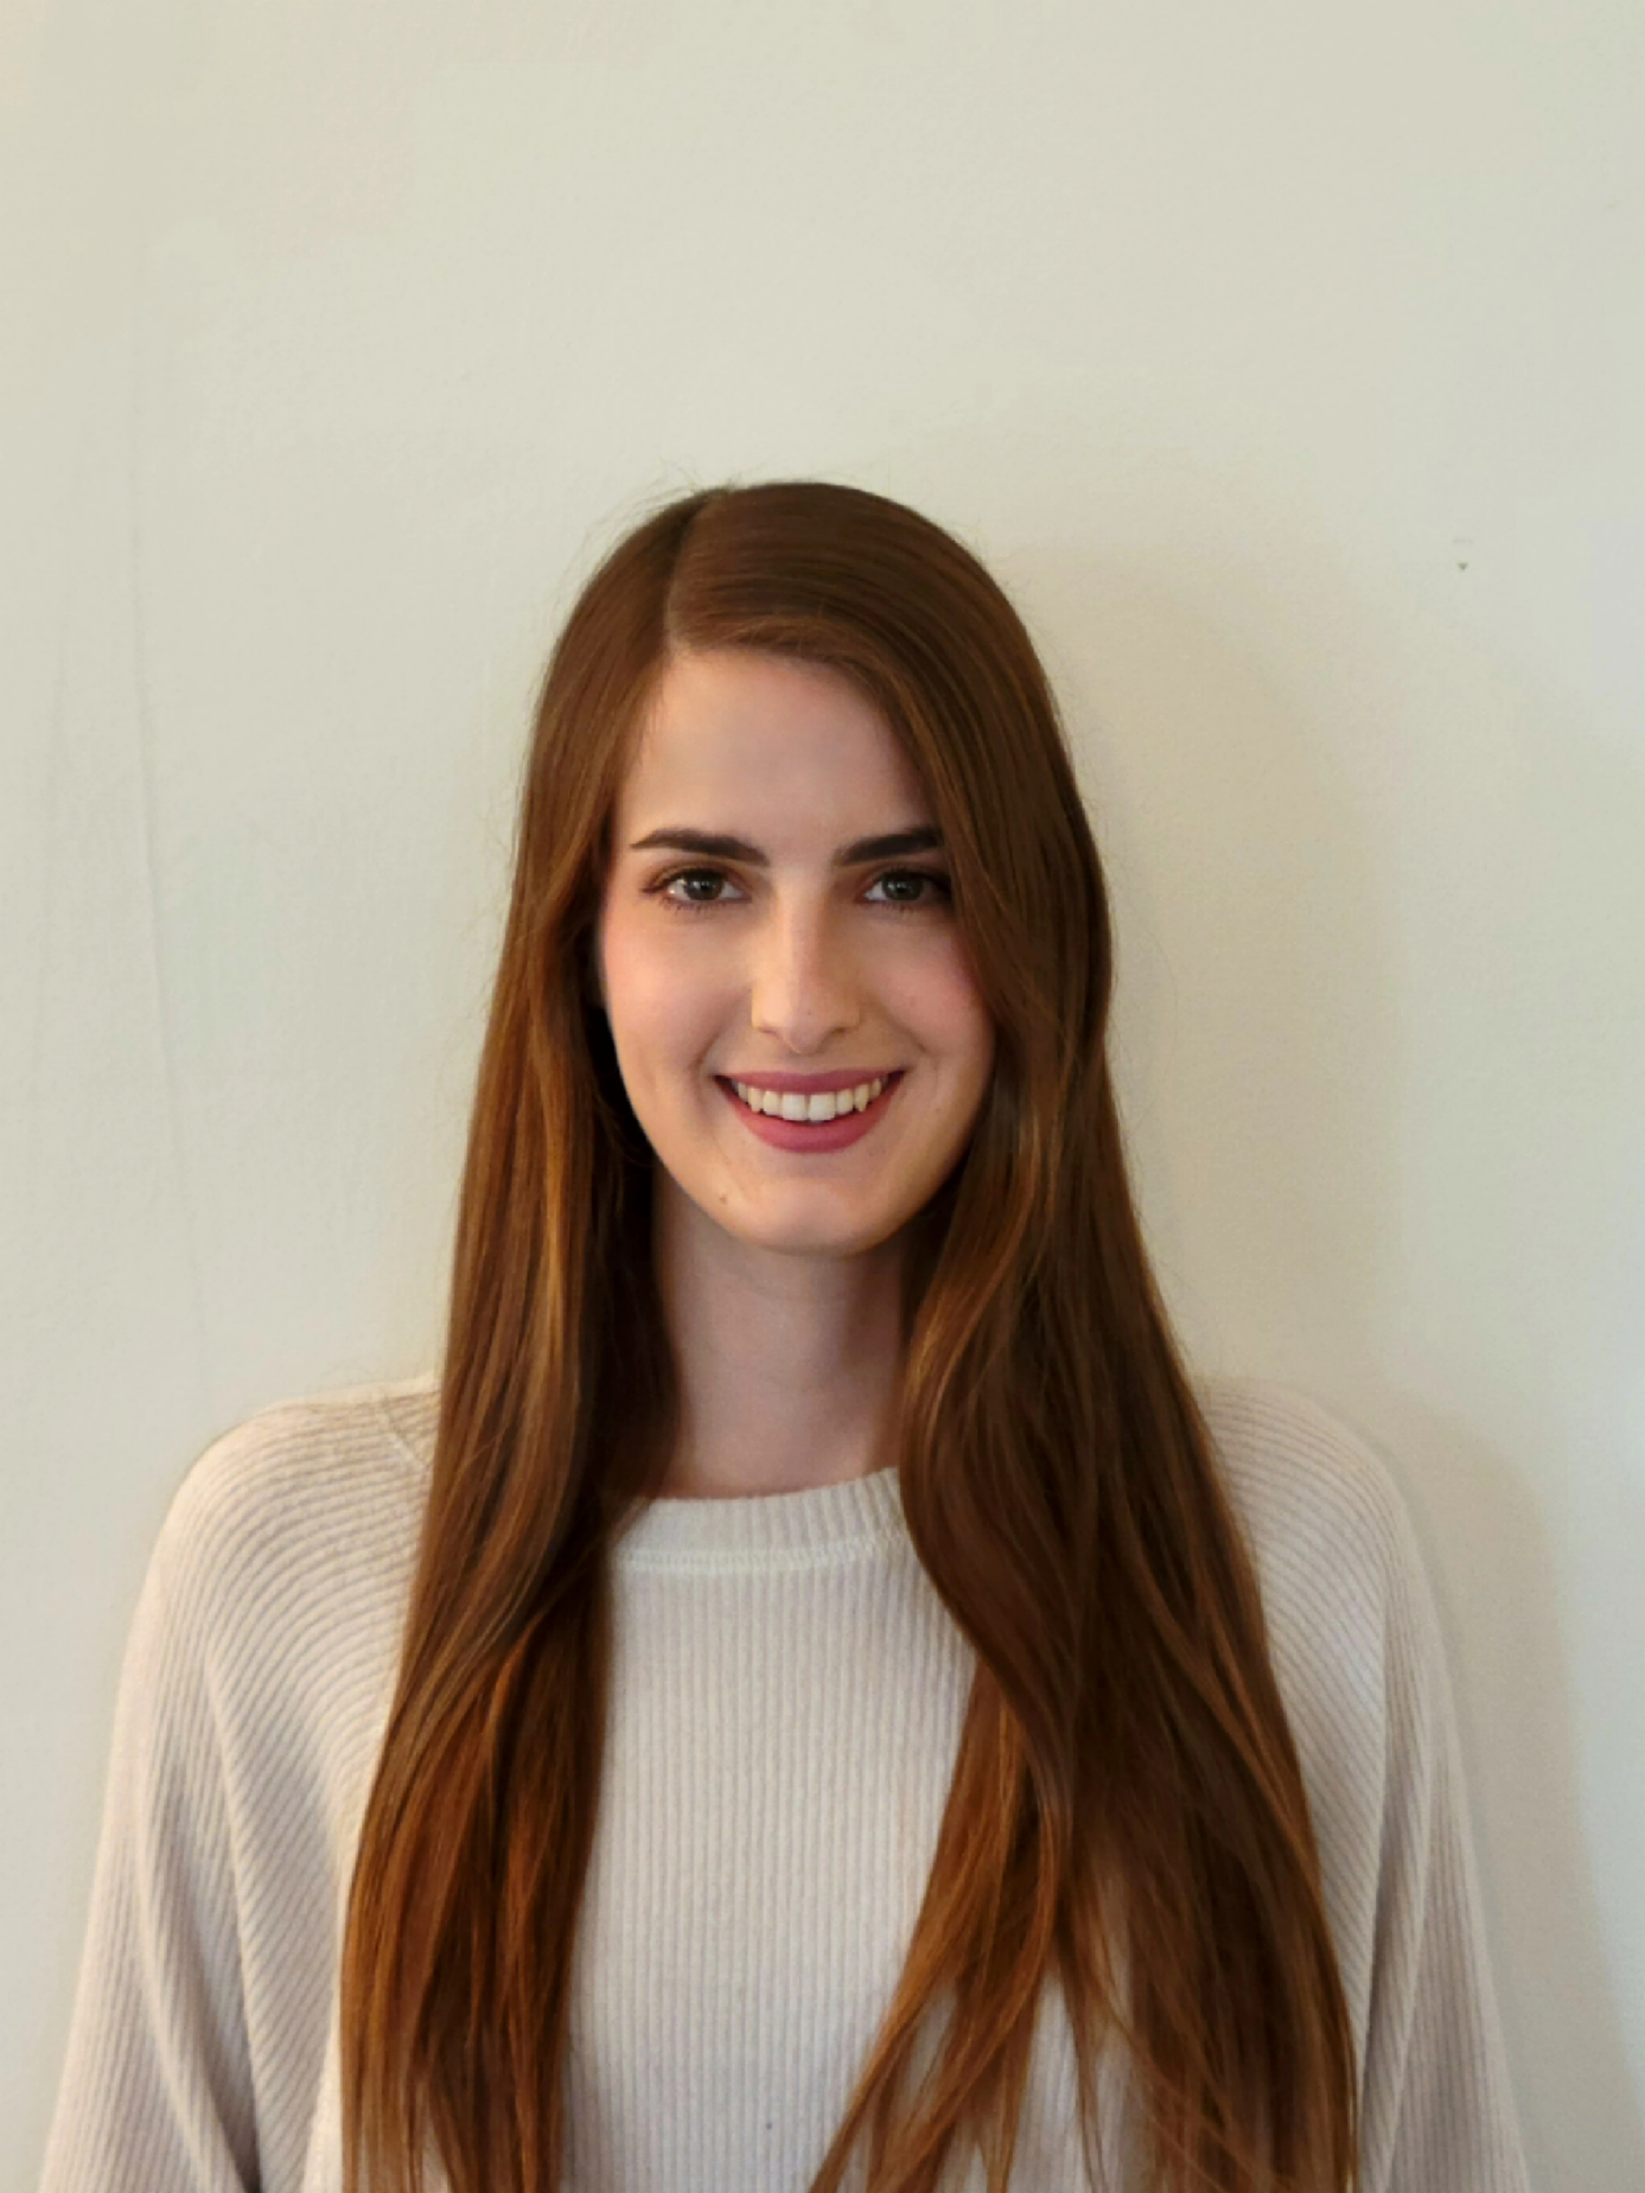
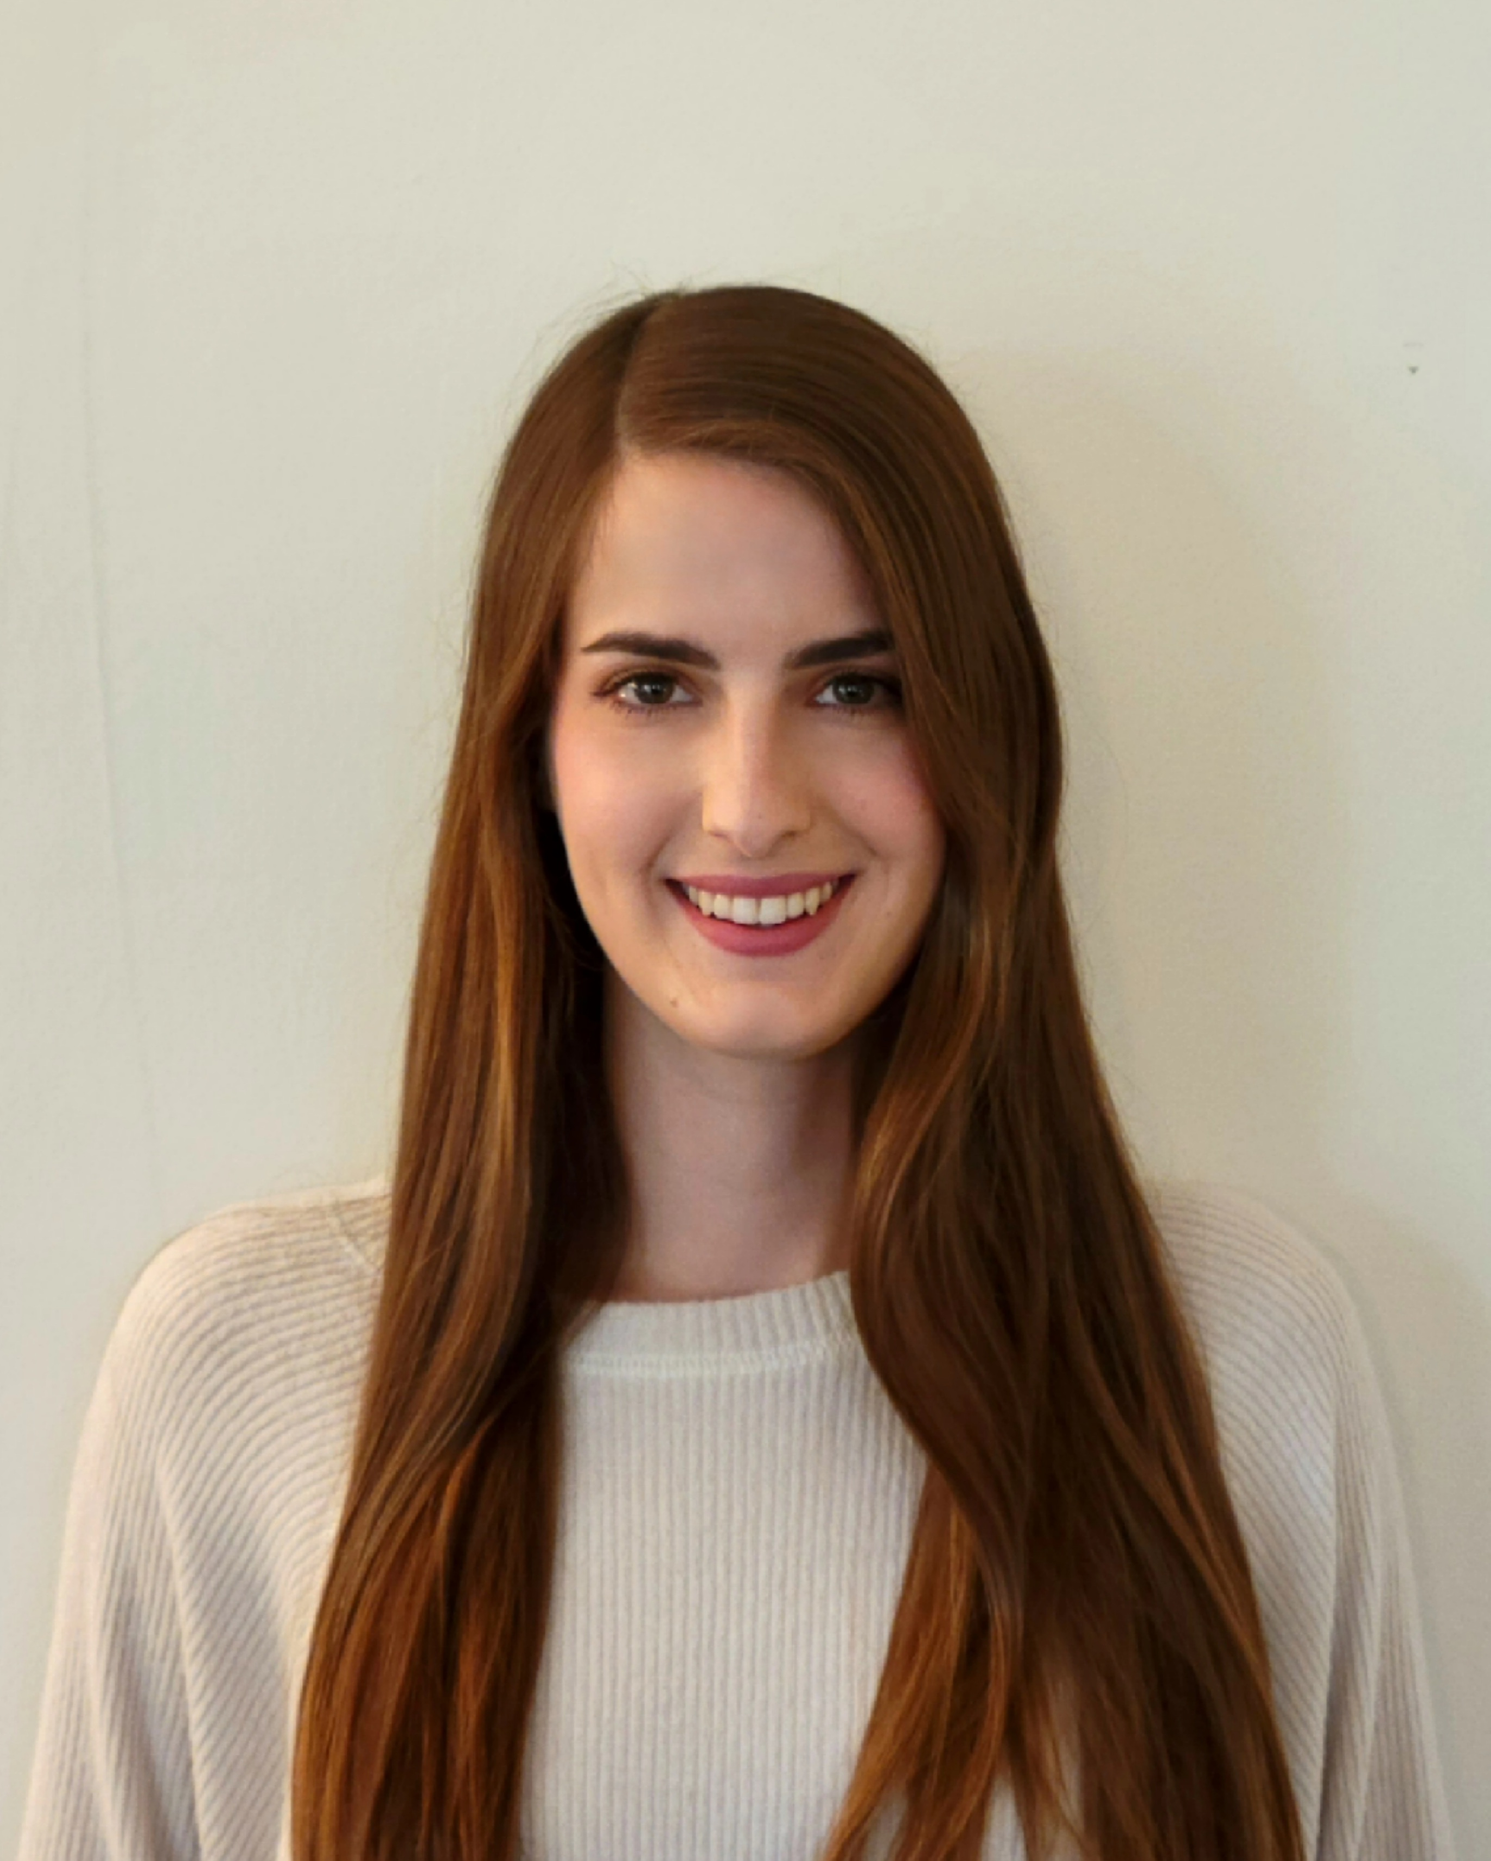
Began working on CSS.

Changed region(s): [[0.0, 0.1239, 0.961, 1.0], [0.93, 0.6505, 1.0, 0.9603]]

diff --git a/index.html b/index.html
@@ -56,8 +56,8 @@
                         </figure>
                         <h4>Super Sticky Notes</h4>
                         <p class="description">An interactive React app that allows users to create “sticky notes” to keep track of their to-do lists. Uses multiple components to create a classic sticky note UI where users can edit, save, and search their notes.</p>
-                        <p><span class="skills">Skills:</span> React, JSX, Components, Local Storage</p>
-                        <p><span class="tools">Tools:</span> CodeSandbox, GitHub Pages</p>
+                        <p><span>Skills:</span> React, JSX, Components, Local Storage</p>
+                        <p><span>Tools:</span> CodeSandbox, GitHub Pages</p>
                         <a class="project-button" target="_blank" href="https://jordanr2m.github.io/sticky-notes-app/">Live Site</a>
                     </div>
 
@@ -69,48 +69,48 @@
                         </figure>
                         <h4>GitHub Repo Gallery</h4>
                         <p class="description">A gallery of my public repos available on GitHub. Uses GitHub's API to pull data from my GitHub profile. Click on any repo to see more of its details.</p>
-                        <p><span class="skills">Skills:</span> JavaScript, APIs</p>
-                        <p><span class="tools">Tools:</span> GitHub</p>
+                        <p><span>Skills:</span> JavaScript, APIs</p>
+                        <p><span>Tools:</span> GitHub</p>
                         <a class="project-button" target="_blank" href="https://jordanr2m.github.io/github-repo-gallery/">Live Site</a>
                     </div>
 
                     <div class="project-container">
                         <figure>
-                            <a href="" target="_blank">
-                                <img class="project-preview" src="" alt="">
+                            <a href="https://jordanr2m.github.io/guess-the-word-game/" target="_blank">
+                                <img class="project-preview" src="img/guess-the-word-preview.png" alt="Preview of Guess the Word Game">
                             </a>
                         </figure>
                         <h4>Guess the Word Game</h4>
-                        <p class="description"></p>
-                        <p><span class="skills">Skills:</span></p>
-                        <p><span class="tools">Tools:</span></p>
-                        <a class="project-button" target="_blank" href="">Live Site</a>
+                        <p class="description">A fun and interactive game where players guess a random word by entering one letter at a time. Guess the letters correctly before running out of tries, and you win!</p>
+                        <p><span>Skills:</span> JavaScript, DOM Manipulation</p>
+                        <p><span>Tools:</span> GitHub Pages, JSON</p>
+                        <a class="project-button" target="_blank" href="https://jordanr2m.github.io/guess-the-word-game/">Live Site</a>
                     </div>
 
                     <div class="project-container">
                         <figure>
-                            <a href="" target="_blank">
-                                <img class="project-preview" src="" alt="">
+                            <a href="https://jordanr2m.github.io/unplugged/index.html" target="_blank">
+                                <img class="project-preview" src="img/unplugged-preview.jpg" alt="Preview of Unplugged Retreat website">
                             </a>
                         </figure>
                         <h4>Unplugged Retreat</h4>
-                        <p class="description"></p>
-                        <p><span class="skills">Skills:</span></p>
-                        <p><span class="tools">Tools:</span></p>
-                        <a class="project-button" target="_blank" href="">Live Site</a>
+                        <p class="description">A multipage, fully responsive website built using Flexbox. The design seamlessly adapts to mobile, tablet, and desktop screens and also features a Google Maps integration.</p>
+                        <p><span>Skills:</span> HTML, CSS, Flexbox, Media Queries, Responsive Design</p>
+                        <p><span>Tools:</span> Chrome DevTools, Photoshop</p>
+                        <a class="project-button" target="_blank" href="https://jordanr2m.github.io/unplugged/index.html">Live Site</a>
                     </div>
 
                     <div class="project-container">
                         <figure>
-                            <a href="" target="_blank">
-                                <img class="project-preview" src="" alt="">
+                            <a href="https://jordanr2m.github.io/faq-accordion-accessible/" target="_blank">
+                                <img class="project-preview" src="img/faq-preview.png" alt="Preview of FAQ accordion">
                             </a>
                         </figure>
-                        <h4>FAQ Accordion</h4>
-                        <p class="description"></p>
-                        <p><span class="skills">Skills:</span></p>
-                        <p><span class="tools">Tools:</span></p>
-                        <a class="project-button" target="_blank" href="">Live Site</a>
+                        <h4>Accessible FAQ Accordion</h4>
+                        <p class="description">An accordion design for an FAQ section. This accordion is built with JavaScript, is fully accessible, responsive, and can be repurposed for different sites.</p>
+                        <p><span>Skills:</span> JavaScript, Accessibility</p>
+                        <p><span>Tools:</span> Chrome DevTools</p>
+                        <a class="project-button" target="_blank" href="https://jordanr2m.github.io/faq-accordion-accessible/">Live Site</a>
                     </div>
                 </div>
             </div>
@@ -141,7 +141,7 @@
             <div class="content-wrapper">
                 <div class="about-content-wrapper">
                     <figure>
-                        <img class="profile-pic" src="" alt="Headshot of Jordan Jackson">
+                        <img class="profile-pic" src="img/jordan-headshot.jpg" alt="Headshot of Jordan Jackson">
                     </figure>
 
                     <div class="about-text">

diff --git a/css/main.css b/css/main.css
@@ -1,3 +1,10 @@
+:root {
+    --header: #EC91C4;
+    --accent: #351D77;
+    --projects: #EEE4F0;
+    --about: #E8F0E4;
+}
+
 html {
     box-sizing: border-box;
     font-size: 16px;
@@ -7,9 +14,18 @@ html {
     box-sizing: inherit;
 }
 
+/* ===== Global Styles (website coded mobile first) ===== */
 body {
+    /* min-height: 100vh;
+    margin: 0;
+    display: flex;
+    flex-direction: column;
+    justify-content: center;
+    align-items: center; */
     font-family: "Nunito Sans", sans-serif;
-    margin: 0; 
+    font-size: 1em;
+    color: #332d3a;
+    background-color: white;
 }
 
 h1,
@@ -19,16 +35,40 @@ h4,
 h5 {
     font-family: "Alata", sans-serif;
     text-align: center;
+    margin: 0;
+    line-height: 1.5;
 }
 
-.content-wrapper {
-    width: 90%;
-    margin: 0 1.25em;
+h1 {
+    font-size: 1.75rem;
 }
 
-.project-container {
-    margin-top: 1.25em;
-    margin-bottom: 2.5em;
+h2 {
+    font-size: 1.25rem;
+}
+
+h3 {
+    font-size: 1.5rem;
+    padding-bottom: 0.5em;
+    border-bottom: 1px solid #332d3a;
+}
+
+h4 {
+    font-size: 1.25rem;
+    margin-top: 1em;
+}
+
+p {
+    margin: 0.1em 0;
+    line-height: 1.5;
+}
+
+p.description {
+    margin: 1.5em 0;
+}
+
+span {
+    font-weight: 700;
 }
 
 figure {
@@ -39,14 +79,99 @@ img {
     width: 100%;
 }
 
-a.project-button {
-    text-decoration: none;
+address {
+    font-style: normal;
 }
 
-.skills,
-.tools {
-    font-weight: 700;
+.content-wrapper {
+    width: 85%;
+    margin: 0 auto;
 }
+
+/* === Header Styles === */
+header {
+    background-color: var(--header);
+    color: var(--accent);
+    padding: 2em 0 3em 0;
+}
+
+header h2 {
+    margin-top: 2em;
+    font-weight: 500;
+}
+
+nav {
+    margin-bottom: 3.5em;
+}
+
+ul {
+    list-style-type: none;
+    margin: 0;
+    padding: 0;
+}
+
+nav ul {
+    display: flex;
+    justify-content: space-between;
+}
+
+header nav ul li {
+    font-size: .75rem;
+    font-weight: 800;
+    text-transform: uppercase;
+}
+
+header nav ul li a {
+    text-decoration: none;
+    color: var(--accent);
+}
+
+header nav ul li a:hover,   
+header nav ul li a:focus {
+    color: white;
+    background-color: var(--accent);
+    padding: 0.75em 0.75em;
+    border-radius: 2em;
+    outline: none;
+}
+
+/* ===== Project Section Styles ===== */
+section#projects {
+    padding-top: 2.5em;
+    background-color: var(--projects);
+}
+
+.projects-wrapper {
+    margin-top: 2.25em;
+}
+
+.project-container {
+    margin-bottom: 3em;
+    display: flex;
+    flex-flow: column wrap;
+}
+
+.project-container:last-of-type {
+    padding-bottom: 1.5em;
+}
+
+a.project-button {
+    text-decoration: none;
+    background-color: var(--header);
+    color: var(--accent);
+    font-weight: 700;
+    padding: 0.75em 1.5em;
+    border-radius: 1.5em;
+    margin: 1em 0 2em 0;
+    align-self: center;
+}
+
+a.project-button:hover,
+a.project-button:focus {
+    background-color: #F4BEDC;
+}
+
+/* ===== Skills Section styles ===== */
 
 .copyright {
     text-align: center;
